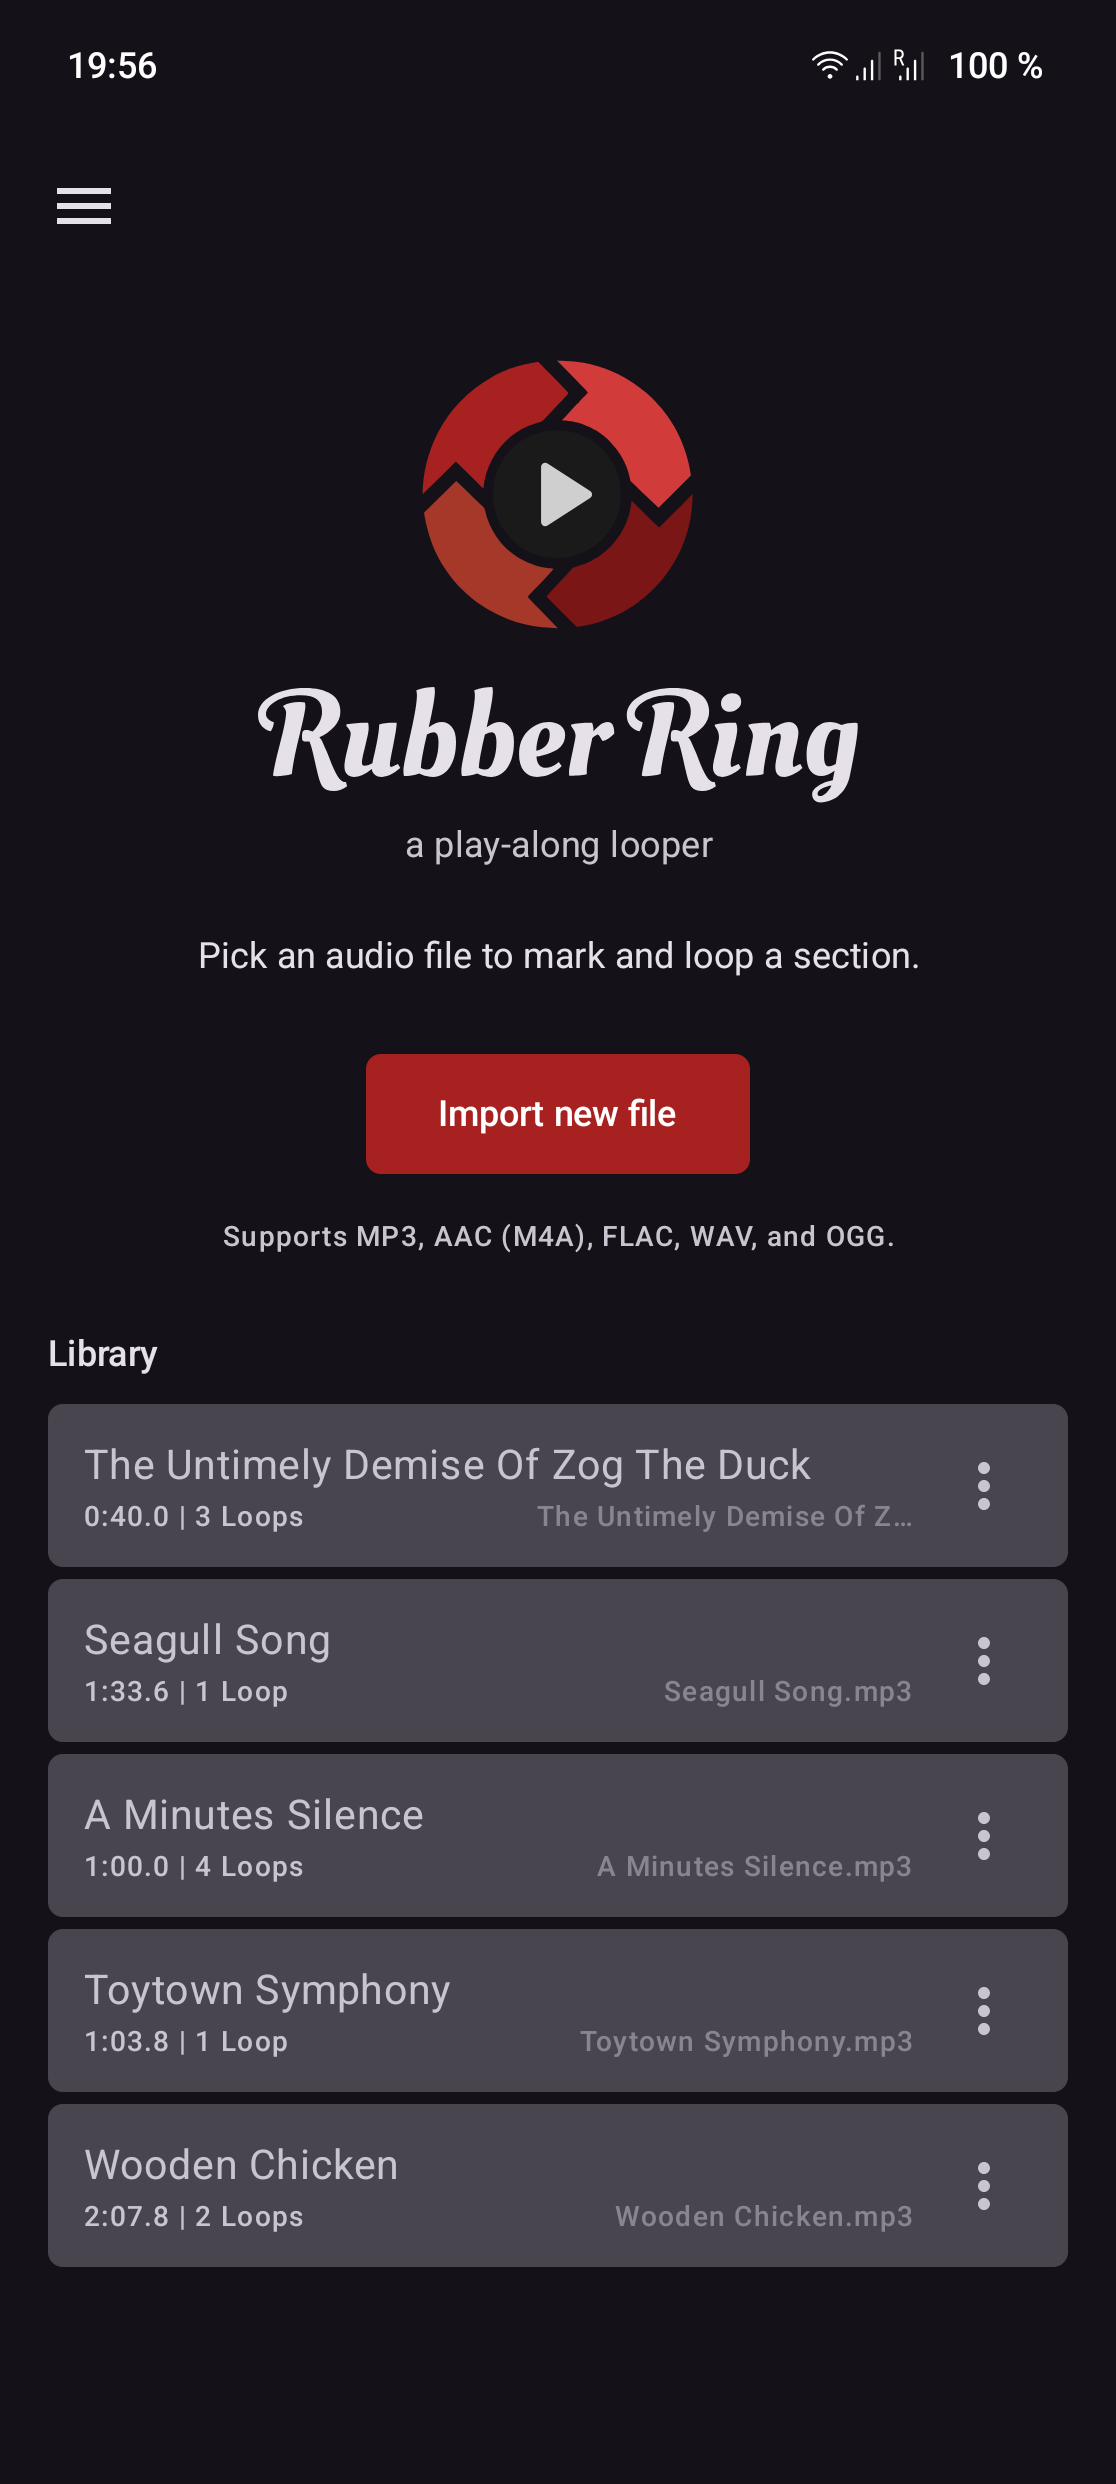
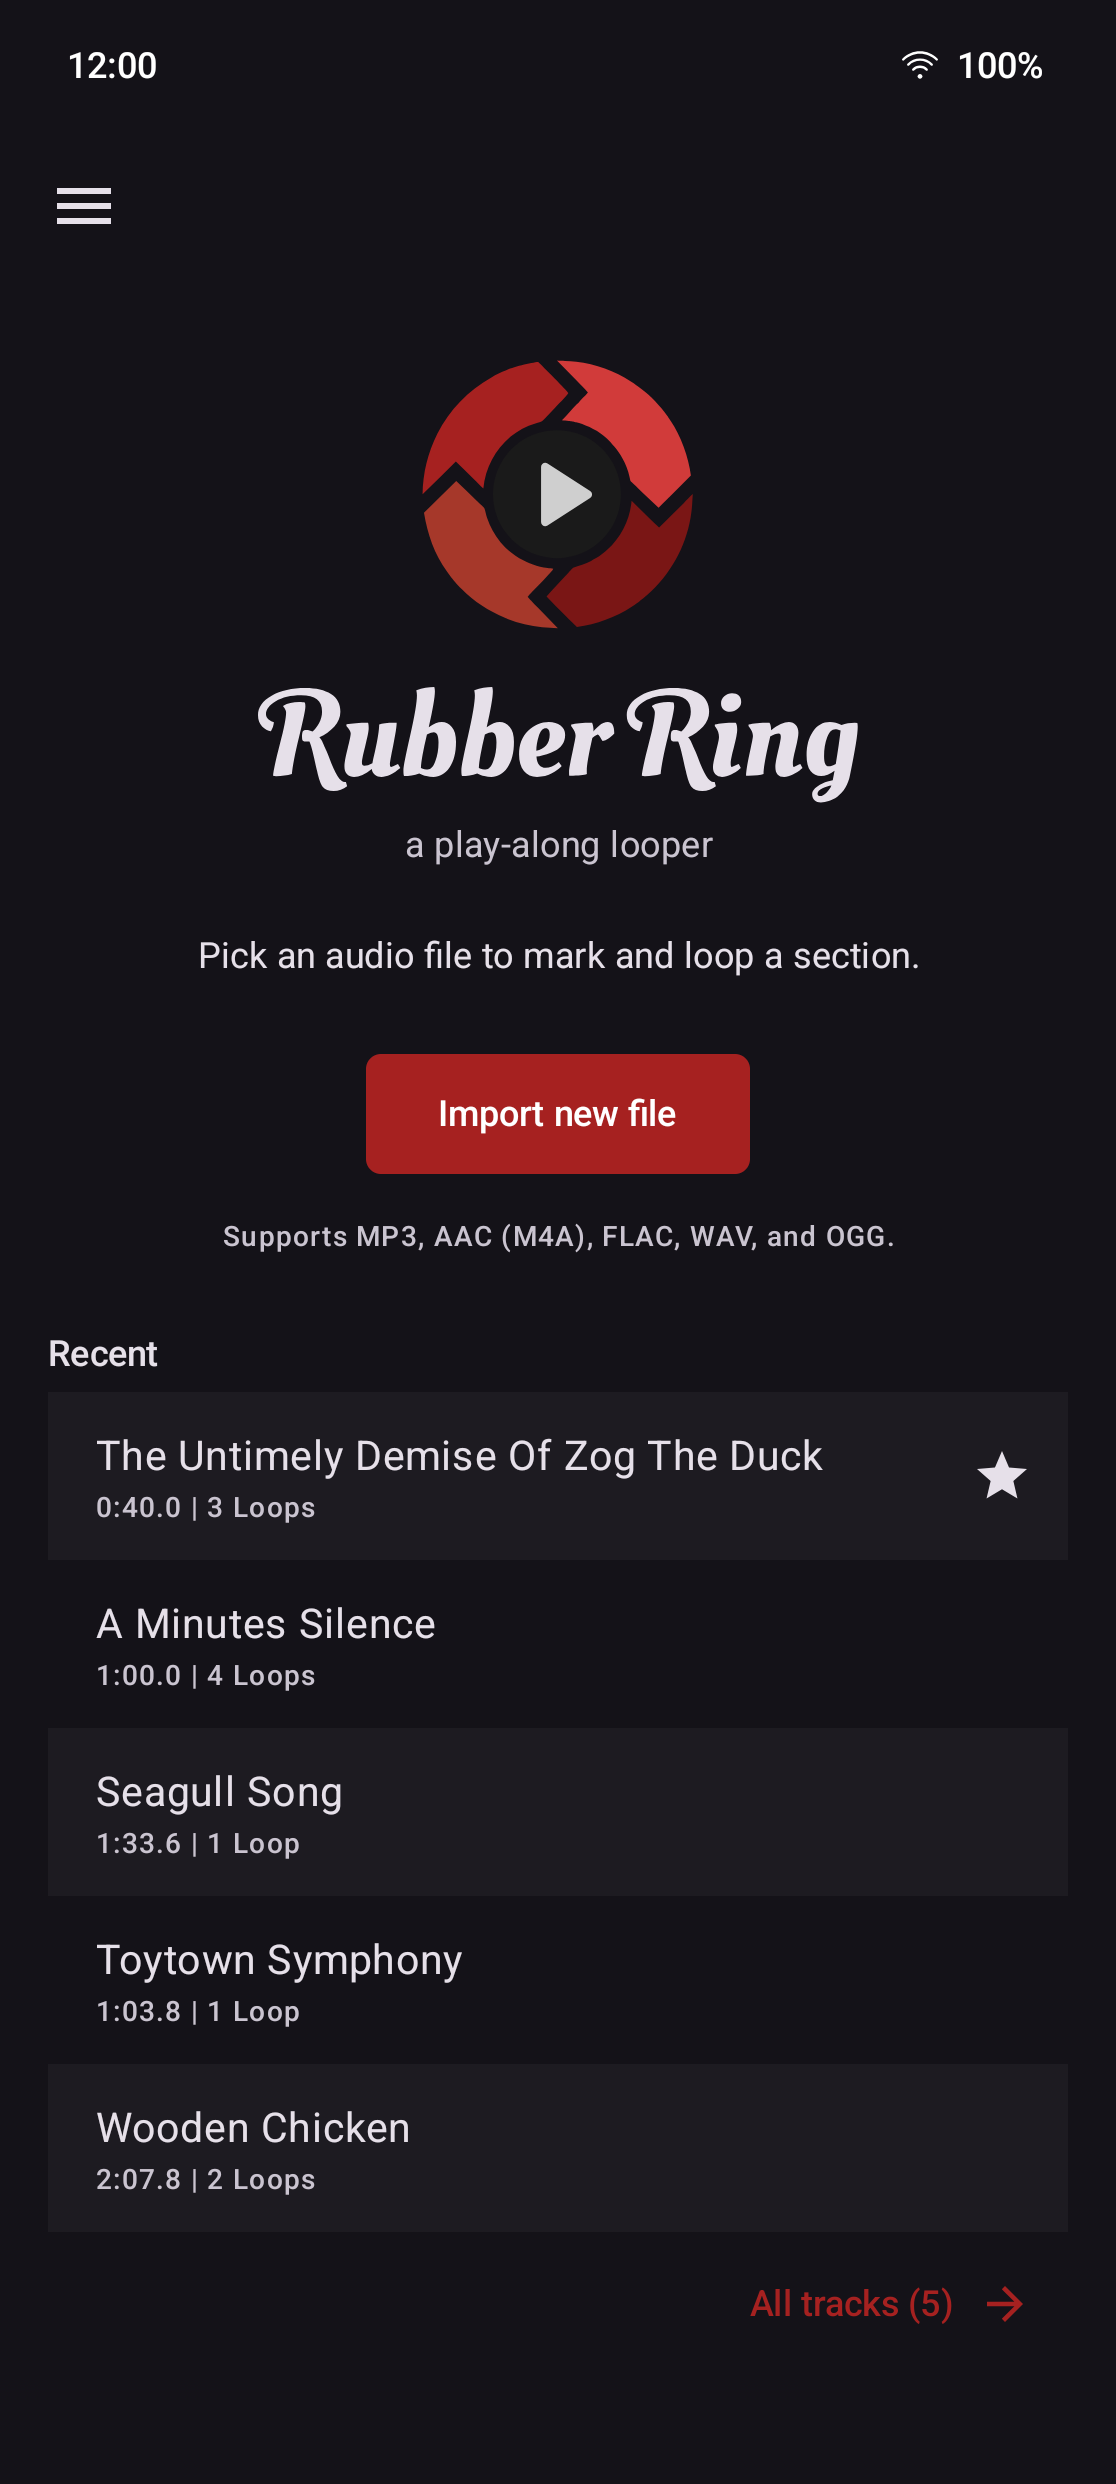
Re-shoot the home screenshot, add the Library
5.png shows the new home screen: the welcome block over the recent
tracks, one starred, and All tracks. 8.png is new and shows the Library
opened over a track, with its back strip, stars and row menus. The
README image takes the new home screen on its left, and its alt text
now says what it shows.

diff --git a/README.md b/README.md
@@ -9,7 +9,7 @@ Early-stage release — expect rough edges. Feedback and bug reports welcome via
 
 ## Screenshots
 
-<img src="docs/screenshot.png" alt="RubberRing library home and the loop editor with chord lane" width="640" />
+<img src="docs/screenshot.png" alt="RubberRing home screen with recent tracks, and the loop editor with chord lane" width="640" />
 
 ## Features
 
